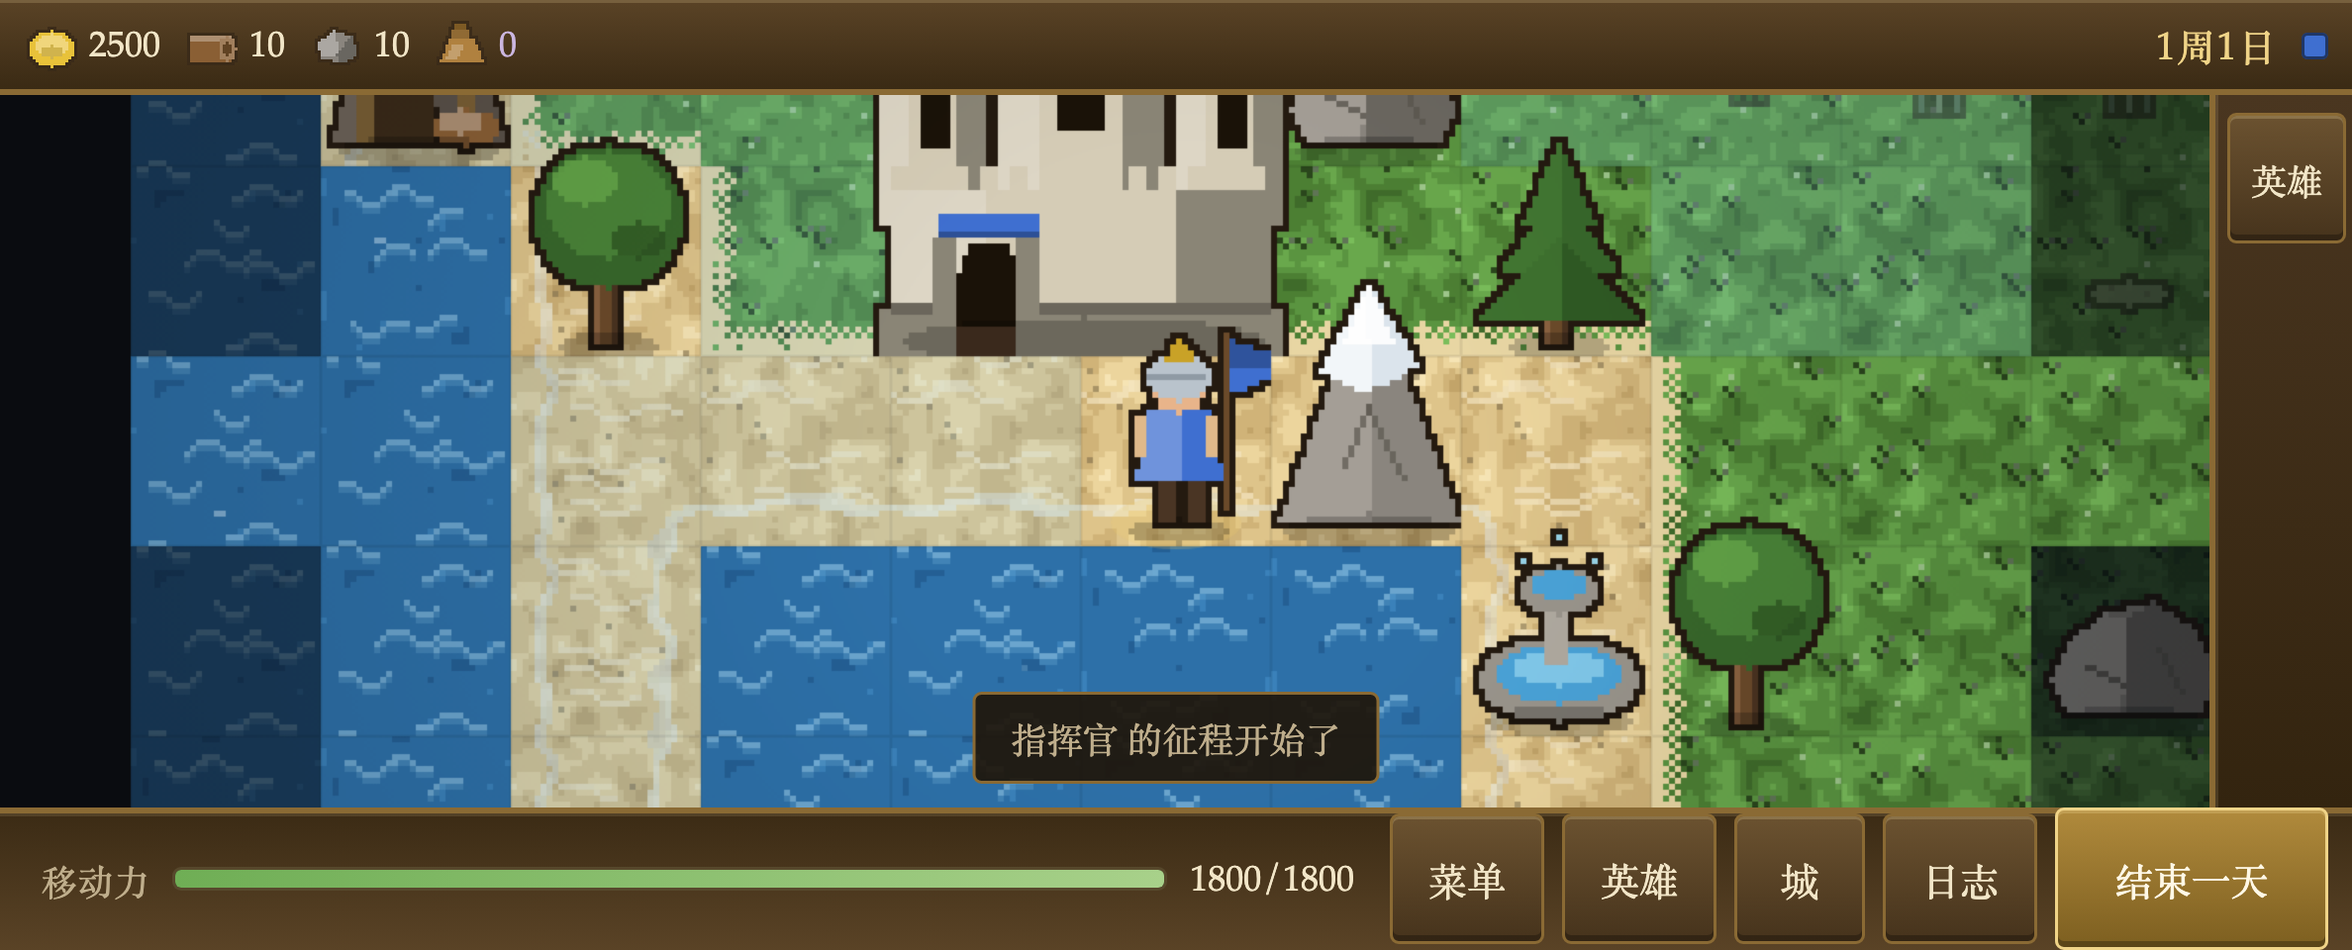
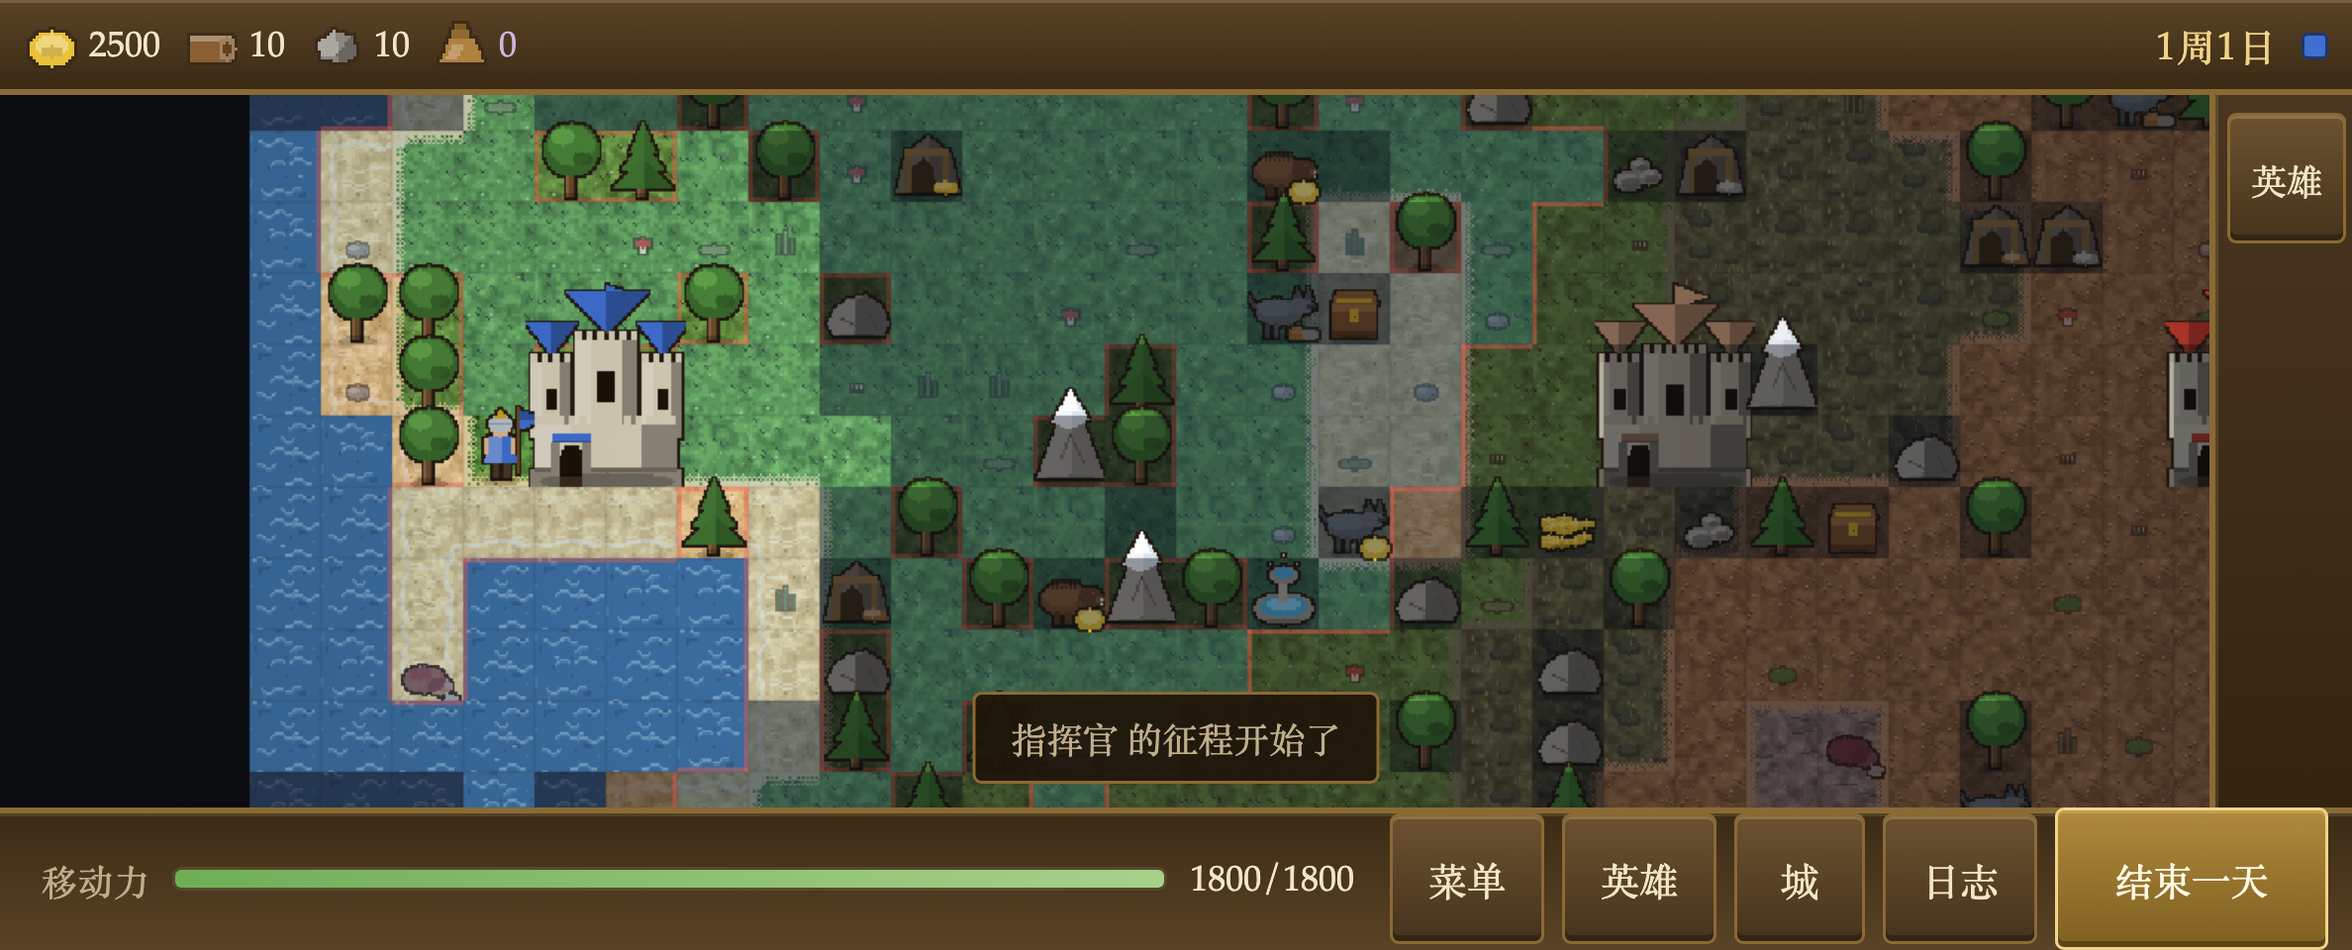
feat(quality)+docs(art-bible): 落 low.setDressing='static'（#85 取 a）+ ?devdpr 隔离开关 + 实测表锁构建
① #85 落地：TIER_TABLE.low.setDressing 'off' → 'static'（team-lead 放行、我作为该政策 owner 落）。就地注记 B 组落地前必须先拆 groundDressing/propDressing。typecheck + smoke 全过。

② 新增调试开关 ?devdpr=<n>（quality.ts）：只覆写 dprCap，其余开关按档位正常生效；沿用 ?devlight 的查询参数惯例，无人传即不影响生产路径。它是回答「档位差里锐度占多少」的唯一手段。

③ 实测（真机视口 792x320@DPR3、裁到地图区 CMP_CROP=84,804、全部同一份 dist）：地貌层 off→on 1.41；只差 dprCap(high 内 1.5↔3) 1.26；档位 low↔high 2.28；零假设(同 URL 抓两次) 0.00。⇒ 锐度占档位差约 55%，不是次要项 —— 更正「主因是锐度」为「锐度与氛围层各约一半」。

④ shots/README.md：四行实测表 + 每个文件的场景写死（含 e2_* 标注为异口径、勿对 ①/③ 的数）+ 命名约定 + 新增开关清单。measurements-visible-delta.md 收下并行实例的 §8（数值与本表一致）。

⑤ 方法论（比数字更要紧）：同 URL 同档位，两份不同 dist 之间可以差 2.08/61.6% 像素 —— 比任何信号都大。故本轮改为「build 后立刻批抓 + 抓前抓后核对 dist/main.js mtime 未变」，README 已记。零假设=0.00 证明构建内逐像素确定，抖动在构建不在工具。

⑥ 顺手还原 b_dress_on.png / c_night_*.png / index.html 到 HEAD —— 那三个是我早前为落盘 g_uniform_* 重跑 artshot 的副作用，且渲染依赖当时未提交的 setDressing.ts，不入库更一致。

diff --git a/homm-web/src/render/quality.ts b/homm-web/src/render/quality.ts
@@ -65,7 +65,12 @@ const TIER_TABLE: Record<Tier, Omit<QualitySettings, 'tier' | 'hoverEffects'>> =
     dprCap: 1.5,
     maxMapSize: 32,
     selectionPulseHz: 2,
-    setDressing: 'off',
+    // 布景层（§6.1.5 / #85 裁定取 (a)）：
+    // A 组是**烘焙层**（运行时仅 1 次 drawImage，与地形层同量级，而地形层不在任何档位被关），
+    // 故 low 也开 `'static'` —— 成本证据：内存 ≤4 MiB / 烘焙 ≈10–30 ms 一次性 / 每帧 +1 drawImage。
+    // ⚠ B 组（立体道具）落地前必须先把 groundDressing(烘焙→全档) 与 propDressing(每帧→随档) 拆开，
+    //    否则 low 会静默多出 B 组的每帧成本。见 cartoon-style.md §6.1.5。
+    setDressing: 'static',
   },
   mid: {
     lighting: 'multiply',
@@ -120,10 +125,38 @@ export function onTierChange(cb: TierListener): () => void {
   };
 }
 
+/* ---------------- 调试：`?devdpr=<n>` —— **只**改 dprCap（隔离实验） ---------------- */
+
+/**
+ * `?devdpr=1.5`：**只**覆写 `dprCap`（渲染倍率上限），**其它开关一律按档位正常生效**。
+ *
+ * 为什么需要它：`shots/README.md` 的实测表里，**档位 low↔high 的差（同构建内 2.28）明显大于单项氛围层**
+ * （地貌层 1.41），但**分不清这里面多少是锐度（`dprCap`）、多少是氛围层开关** —— 档位把两者**捆在一起**。
+ * 有了这个开关就能单变量：**同一个档位、只把 `dprCap` 压低**（或抬回 3）⇒ 差异里剔掉氛围层那一项。
+ * （实测：只差 `dprCap` 就有 1.26 ⇒ 约占档位差的 **55%**，锐度不是次要项。）
+ *
+ * 与 `lightLayer.ts` 的 `?devlight=0.68` 是同一套查询参数惯例：
+ * **无人传 ⇒ `null` ⇒ 生产路径逐字节不变**。fail-safe：非 DOM 环境（node / smoke）拿不到 `location` ⇒ `null`。
+ */
+function devDprCapOverride(): number | null {
+  if (typeof location === 'undefined') return null;
+  try {
+    const raw = new URLSearchParams(location.search).get('devdpr');
+    if (raw === null) return null;
+    const v = Number(raw);
+    return Number.isFinite(v) && v > 0 ? v : null;
+  } catch {
+    return null;
+  }
+}
+const DEV_DPR_CAP = devDprCapOverride();
+
 /** 应用某一档（原地改写单例；档位变化时通知监听器）。返回生效档位。 */
 export function applyTier(tier: Tier, hoverEffects: boolean = quality.hoverEffects): Tier {
   const changed = quality.tier !== tier;
   Object.assign(quality, settingsForTier(tier, hoverEffects));
+  // `?devdpr` 只动 dprCap，其余保持该档位的正常值（见 DEV_DPR_CAP 注释）；不传时为 null、整段不发生。
+  if (DEV_DPR_CAP !== null) quality.dprCap = DEV_DPR_CAP;
   if (changed) {
     for (const cb of listeners) {
       try {

diff --git a/design/art-bible/shots/README.md b/design/art-bible/shots/README.md
@@ -77,24 +77,67 @@ node tools/deviceshot.mjs out.png '<游戏URL>'            high
 它用 `Emulation.setDeviceMetricsOverride` 锁 **792×320 @DPR3**（＝ OPPO PMA110 实测值），
 并能在**页面加载前**写 `homm.tierMode`（`Page.addScriptToEvaluateOnNewDocument`）⇒ 可以出「只差档位」的对照。
 
-**实测（同视口、只差一个变量；正午 `?devlight=0.22`）**：
+### ★ 实测（**同一份 dist** · 真机视口 792×320@DPR3 · 裁到地图区 `CMP_CROP=84,804`）
 
-| 对照 | 平均 \|ΔRGB\| | 变化像素占比 | 平均 \|ΔL\*\| | p95 \|ΔL\*\| |
-|---|---|---|---|---|
-| 地貌层 关 → 开（同 mid 档） | 2.15 | 13.4% | **0.75** | 4.46 |
-| 档位 low → high | 4.94 | 30.6% | **2.14** | 7.39 |
+场景 URL（**所有 `e*` 都是这一条**，每次只改一个变量）：
 
-> ★ **本轮最有用的一句**：**档位差（2.14）是地貌层（0.75）的三倍** —— 而用户真机自动探测正落在 **low**（G-15）。
-> ⇒ 「先修档位探测，比再加一层美术更有效」这条推论**现在有量了**。
+```
+?devquick=1&devsize=medium&devseed=20260917&devlight=0.22&devreveal=1&devzoom=0.5
+```
+
+| # | 文件对 | 只差什么 | 平均 \|ΔRGB\| | 变化像素占比 | 平均 \|ΔL\*\| | p95 \|ΔL\*\| |
+|---|---|---|---|---|---|---|
+| ① | `e_shade_off.png` → `e_shade_on.png` | `?devshade=0`（**同 mid 档**） | 3.62 | 22.8% | **1.41** | 5.32 |
+| ② | `e3_dprcap_1p5.png` → `e3_dprcap_3p0.png` | `?devdpr=1.5`（**同 high 档**，只降渲染倍率） | 2.81 | 11.9% | **1.26** | 5.54 |
+| ③ | `e4_tier_low.png` → `e4_tier_high.png` | 档位 low ↔ high | 5.14 | 28.0% | **2.28** | 7.96 |
+| ④ | `e4_tier_high.png` → `e5_null_b.png` | **什么都没差**（同 URL 抓两次） | 0.00 | 0.0% | **0.00** | 0.00 |
+
+**怎么读这四行**：
+
+- **先看 ④**：同 build 下同一配置抓两次**逐像素完全一致（0.00）** ⇒ 这套测量**在构建内是确定的**，上面的差值是信号、不是抖动。
+- **③ 里 dprCap 占了一半以上**：**不换档、只把渲染倍率从 3 压到 1.5**（②）就已经产生 **1.26 / 2.28 ≈ 55%** 的量。
+  ⇒ **「档位差的主因是氛围层」这个猜测不成立** —— 锐度是同等重要的一半。（两者不严格可加，只作量级比较。）
+- **① 是独立的一项**：地貌层不挂档位，任何档都生效，1.41 与 ② 同量级。
+- **量级结论（给非专家）**：**这些差都在"能测出来、但不足以读成一次画质升级"的区间**。要让玩家感到提升，杠杆在**尺寸 / 内容量 / 构图**（同 `bitmap-asset-options.md` §6.2）。
+
+### ⚠⚠ 最强的一条限制：**数字必须绑构建**
+
+同一条 URL、同一个档位，在**两份不同的 dist** 上抓出来可以差到 **平均 |ΔL\*| 2.08 / 61.6% 像素变化** —— **比这里任何一项"信号"都大**。
+⇒ 上表四行是**一次性批抓**（抓前抓后 `dist/main.js` 的 mtime 完全相同，已核）。
+**引用任何一个数，必须一起说清"哪次构建"**；跨构建比数字是这个目录最容易踩的坑。
+
+> **已被本表取代的一组**：早前未锁构建、且量的是**整页**而非地图区的 `0.75 / 2.14`。整页会把顶栏 / 底栏 / 侧栏那些两版逐像素相同的区域算进来摊薄 ⇒ 同一对换成地图区后是 **1.41 / 2.28**。
+
+## 每个文件的场景（**写死**，别拿错图去对错数）
+
+| 文件 | 场景 / 档位 | 用在哪 |
+|---|---|---|
+| `e_shade_off.png` / `e_shade_on.png` | 上述 URL · **tier=mid 锁死** · 只差 `?devshade=0` | ① 地貌层 |
+| `e3_dprcap_1p5.png` | 上述 URL · **tier=high** · `?devdpr=1.5` | ② 渲染倍率（低） |
+| `e3_dprcap_3p0.png` | 上述 URL · **tier=high**（不传 `devdpr`） | ② 渲染倍率（高） |
+| `e4_tier_low.png` / `e4_tier_high.png` | 上述 URL · 只差档位 | ③ 档位 |
+| `e5_null_b.png` | 上述 URL · **tier=high**，与 `e4_tier_high.png` 同配置 | ④ 零假设（噪声底） |
+| `e2_shade_off.png` / `e2_shade_on.png` | ⚠ **不是本表口径**（未锁档位，并行实例抓） | 只能看效果，**不要拿它对 ①/③ 的数** |
+| `d_chrome_*.png` / `d_live_chrome.png` | 桌面视口 / 真机实拍 | 全 UI 外观，另一条线 |
+
+> ★ **`e` / `e2` / `e3` / `e4` / `e5` 不是"版本号"，是"实验编号"**：
+> `e`=地貌层 · `e2`=同题异跑 · `e3`=dprCap 隔离 · `e4`=档位 · `e5`=零假设。
 >
-> ⚠ **诚实边界**：档位对照**混了两个变量**（氛围层开关 ＋ `dprCap` 渲染倍率），所以它**不是"纯氛围层"的测度**：
-> 同一块 792×240 的 CSS 画布，low 按 1.5×、high 按 3× 上屏，**清晰度差也在里面**（实测 low 平均 RGB 97.0/110.6/90.2 vs high 94.2/106.7/87.0 —— low 反而偏亮，是 2× 上采样把 1px 描边糊开所致）。
-> 另：`warmOverlay`（L4）在**正午与深夜恒为 0**，故正午的档位对照**看不到 L4**，须用 `?devlight=0.5`（黄昏）才量得准。
+> ⚠ **唯一一处需要小心的名字**：`measurements-visible-delta.md` §3 的 **`0.98`**（组①）等数，对应**该文写就时磁盘上的 `e_shade_*.png`** ——
+> 那一版是**默认缩放**视角（`e7f1df3` 入库）。这两个文件**已被重拍**（本表口径：`devzoom=0.5`、档位锁 mid）。
+> ⇒ **不要再拿磁盘上这两个文件去对 `0.98`**；要复算 §3 那组，按其 §2 的命令重跑（本表 ① 的 1.41 是**新口径**，两者不是同一件事）。
+> `e2_shade_*` 是撞车期的遗留（第三种场景），**只可看效果，不可入表**。
+
+## 本轮新增的调试开关（都是"无人传即不影响生产路径"）
+
+- `?devshade=0` —— 关地形「地貌层」（`terrainLayer.ts`，沿用 `?devlight` 的查询参数惯例）
+- `?devdpr=1.5` —— **只**改 `dprCap`，其它开关按档位正常生效（`quality.ts`）。这是分辨 ② 的**唯一**手段：档位把"锐度"和"氛围层"捆在一起，它把两者拆开。
 
 ## 本轮没做（留给下一单）
 
-- **垫片 vs 真实 Chrome 的逐像素一致性**：`a_*` / `b_*` / `c_*` 仍是垫片合成。本轮只补了**真机视口**这一维，没做同图的双渲染比对。
-- **`index.html` 对照页未并入本节的 `e_*` / `f_*` / `g_*`**：那页由 `artshot.mjs` 生成，只吃垫片那三对。
+- **垫片 vs 真实 Chrome 的逐像素一致性**：`a_*` / `b_*` / `c_*` 仍是垫片合成；只补了真机视口这一维。
+- **`index.html` 对照页未并入 `e*` 系列**：那页由 `artshot.mjs` 生成，只吃垫片那三对。
+- **`warmOverlay`（L4）没单独量**：正午 / 深夜恒为 0（只在清晨 t=0 与黄昏 t=0.5 非零）⇒ 要量它必须用 `?devlight=0.5`。
 
 ---
 

diff --git a/design/art-bible/cartoon-style.md b/design/art-bible/cartoon-style.md
@@ -211,6 +211,11 @@ CMP_TILE=32 node tools/imagecmp.mjs ../design/art-bible/shots/g_uniform_off.png 
 
 **⚠ 真机视口的对照结果（诚实边界，2026-09-21）**：在**真机视口 792×320 @DPR3**、**真实 Chrome**、同档位（mid）、只差 `?devshade=0` 的对照里，整页平均 |ΔL\*| 仅 **0.75**（p95 4.46；13.4% 的像素任一通道 |Δ|>8）。⇒ 这一层**在真实游玩尺度上是"看得出、但不是一眼惊艳"的量级**。**不要把"看得出哪里是坡"读成"画面焕然一新"** —— 它补的是「没有大地貌」，不是"画面不够好"的全部。复现：`node tools/deviceshot.mjs out.png '<游戏 URL>&devshade=0' mid`（不传 `devshade` 即"开"）。
 
+> **补充（同日，锁构建 + 裁到游戏区）**：上面的 `0.75` 量的是**整页** —— 含顶栏 / 底栏 / 侧栏那三块**两版逐像素相同**的区域 ⇒ 会**摊薄**差异。
+> 改用**游戏区**（`CMP_CROP=84,804`）且**同一份 `dist` 批抓**后，同一变量对是 **平均 |ΔL\*| 1.41、p95 5.32、22.8% 像素变化**（`shots/README.md` ① 行）。
+> ⚠ **但下面这条比数字更要紧**：同一条 URL、同一个档位，**换成另一份 `dist` 可以差到 2.08 / 61.6% 像素** —— **比信号本身还大**。
+> ⇒ **引用任何对照数，必须连"哪次构建"一起说**。做法（build → 立刻批抓 → 核 `dist/main.js` 的 mtime 未变）记在 `shots/measurements-visible-delta.md` §8.2；同 §8.1 还有一条**改正**：档位差里 **`dprCap`（锐度）约占 55%**，不是"主因在氛围层"。
+
 **代价**：**零新资产、零位图**；全部在**烘焙期**完成 ⇒ 运行时仍是每帧一次 `drawImage`（**零运行时成本**）。`TILE=32`、`imageSmoothingEnabled=false`、画家算法**均未动**。**仍不重写砖** ⇒ §3.1 的成本论证**逐条成立**。
 
 ### 3.2 全局基底色板（所有族共用 —— 这是「像一家人」的保险）
@@ -596,6 +601,8 @@ quality.setDressing: 'off' | 'static' | 'full'
 > - **⚠ 前提更正**：low **并非"看不到地面涂鸦"**。`terrainLayer.bake()` 里那层 16×16 `deco_*`（`hash2(x,y,233)`、约 22% 空地）**不挂档位**，各档都画。low 唯一缺的是本层的 **`sd_g_*`**（32×32、语义锚点）。⇒ 这条是「补一层」，不是「从无到有」。
 > - **⚠ 前向陷阱（必须记账）**：`'static'` 的语义是「A + B、关 C」。**B 组落地时，必须先做 (b) 的拆分**（`groundDressing` 烘焙→全档 / `propDressing` 每帧→随档），否则 low 会**静默**多出 B 组的每帧成本。⇒ **(b) 不是被否决，而是被排到「B 组那一单」之前。**
 > - 代码改动 1 行（`TIER_TABLE.low.setDressing`）+ 本回填；`?devdressing` 类对照开关暂不需要（A 组烘焙层无每帧状态可 A/B）。
+> - ✅ **已落（2026-09-21）**：`quality.ts` 的 `TIER_TABLE.low.setDressing` 已由 `'off'` 改为 `'static'`（主理人放行后由 art-director 落，随附**成本三条**写在该行上方注释里，便于后人看见「为什么 low 也开」）。同批另在这个文件加了一个**隔离实验开关** `?devdpr=<n>`：**只覆写 `dprCap`、其它开关按档位正常生效**，用来把"档位差里锐度占多少"从"氛围层"里拆出来（用途与实测见 `shots/README.md` ② 行与 `shots/measurements-visible-delta.md` §8.1：**锐度约占 55%**）。
+> - **✅ 已落（2026-09-21）**：`quality.ts` 的 `TIER_TABLE.low.setDressing` 已改为 `'static'`（一行 + 就地注「B 组落地前必须先拆 `groundDressing`/`propDressing`」）。同批新增调试开关 **`?devdpr=<n>`**（`quality.ts`）：**只**改 `dprCap`、其它开关按档位正常生效 —— 用于把「档位差」拆成「锐度」与「氛围层」两项。实测只差 `dprCap`（同 high 档 1.5 vs 3）就有 **平均 |ΔL\*| 1.26**，占档位差（2.28）的 **≈55%** ⇒ **锐度是档位差里同等重要的一半，不是次要项**（见 `shots/README.md` 的实测表）。
 
 **低端档关闭后画面是否仍自洽？——是，且看不出「少了什么」。** 依据：本层**不改任何现有资产**（§6.1.1 第 3 条），关掉它画面就**逐像素回到今天的样子**（地形 + `deco_*` + 单位 + 建筑），只是没有笑话。它**不是**可读性 / 玩法信息，因此关闭**不触发任何可访问性或平衡问题**（对比：关掉网格线 / 迷雾是有代价的，关掉布景没有）。
 

diff --git a/design/art-bible/shots/measurements-visible-delta.md b/design/art-bible/shots/measurements-visible-delta.md
@@ -133,3 +133,41 @@ CMP_CROP=84,804 node tools/imagecmp.mjs /tmp/shade_off.png /tmp/shade_on.png
 **因此的用途限制**：本文档 §3 的全部数字**对应 `e7f1df3` 里那两版 `e_*` 图**；若有人后来重拍了同名文件，`mean|ΔL\*| 0.98` 这组数**不再自动成立**，必须按 §2 命令重算。
 **建议**：`shots/README.md` 与 `shots/index.html` **指定单一 owner**（本文档不碰这两个文件，写的时候对方正在改）。
 
+---
+
+## 8. 后补：做完 §5「本轮没做 ②」那个隔离实验 + 一条比数字更要紧的限制（2026-09-21）
+
+> 本节写于主理人裁定「`shots/` 归 art-director 单一 owner」之后。**不改上文任何一句**，只补两块。
+
+### 8.1 `?devdpr` 已落地 ⇒ §5 里「本轮没做 ②」现在做完了
+
+上文 §5 写着：**「把组②的主因判给锐度……没有做『只降 dprCap、其它全开』的隔离实验——那需要一个新 dev 开关，本轮没做」**。
+那个开关已按既有 `?dev*` 惯例实装：**`quality.ts` 的 `?devdpr=<n>`** —— **只覆写 `dprCap`，其余开关按档位正常生效**（无人传 ⇒ 不做任何事）。
+
+**同一场景、同一构建、裁到地图区（`CMP_CROP=84,804`）**：
+
+| # | 只差什么 | 平均 \|ΔL\*\| | p95 | 变化像素 |
+|---|---|---|---|---|
+| ② | **只在 high 档内**把 `dprCap` 3 → 1.5（`?devdpr=1.5`） | **1.26** | 5.54 | 11.9% |
+| ③ | 档位 low ↔ high（捆绑：氛围层＋dprCap） | **2.28** | 7.96 | 28.0% |
+| ④ | **零假设**：同 URL、同档，抓两次 | **0.00** | 0.00 | 0.0% |
+
+**结论（改正上文 §5 的"主因判给锐度"）**：**锐度不是"主因"，是"一半"** ——
+`1.26 / 2.28 ≈ 55%` 的档位差**只靠压低渲染倍率就能造出来**，剩下约 45% 才是氛围层那几项开关。
+⇒ 上文那句判断**方向对、程度过头**：正确说法是「**锐度与氛围层各占一半上下**」。（两项不严格可加，只作量级比较。）
+
+### 8.2 ⚠ 比上面任何数字都重要：**数字必须绑构建**
+
+同一条 URL、同一个档位，**在两份不同的 `dist` 上**抓出来可以差到 **平均 |ΔL\*| 2.08 / 61.6% 像素变化** ——
+**比本表任何一项"信号"都大**。（触发方式很普通：并行的人在两次抓图之间跑了一次 `npm run build`。）
+
+因此：
+- 本文 §3 与 §8.1 的数字**都只在"自己那一次构建"内成立**；上文 §3 未记录构建指纹 ⇒ **它的绝对值不可与 §8.1 逐位比较**（同向其结论不受影响）。
+- **可复算的正确做法**：`npm run build` 后**立刻**批抓，抓完再 `stat -f "%m" dist/main.js` 核对 mtime 未变；`README.md` 已按此记录并给了全部复跑命令。
+- ④ 那行证明：**同一构建内，这套测量是逐像素确定的（0.00）** ⇒ 抖动不在工具，在构建。
+
+### 8.3 `shots/` 的 owner 与文件口径
+
+主理人已裁定：**`shots/`（含本文件）由 `art-director` 单一 owner**；本目录内每个文件的**场景 / 档位 / 用途**已在 `README.md` 的「每个文件的场景（写死）」表里逐行钉死。
+> ⚠ 其中一处必须记住：本文 §3 的 **`0.98`** 对应该文写就时磁盘上的 `e_shade_*.png`（**默认缩放**视角，`e7f1df3` 版本）；那两个文件**已被按新口径重拍**（`devzoom=0.5`、档位锁 mid ⇒ 同变量测得 **1.41**）。**两者不是同一件事，不要互相对数。**
+
